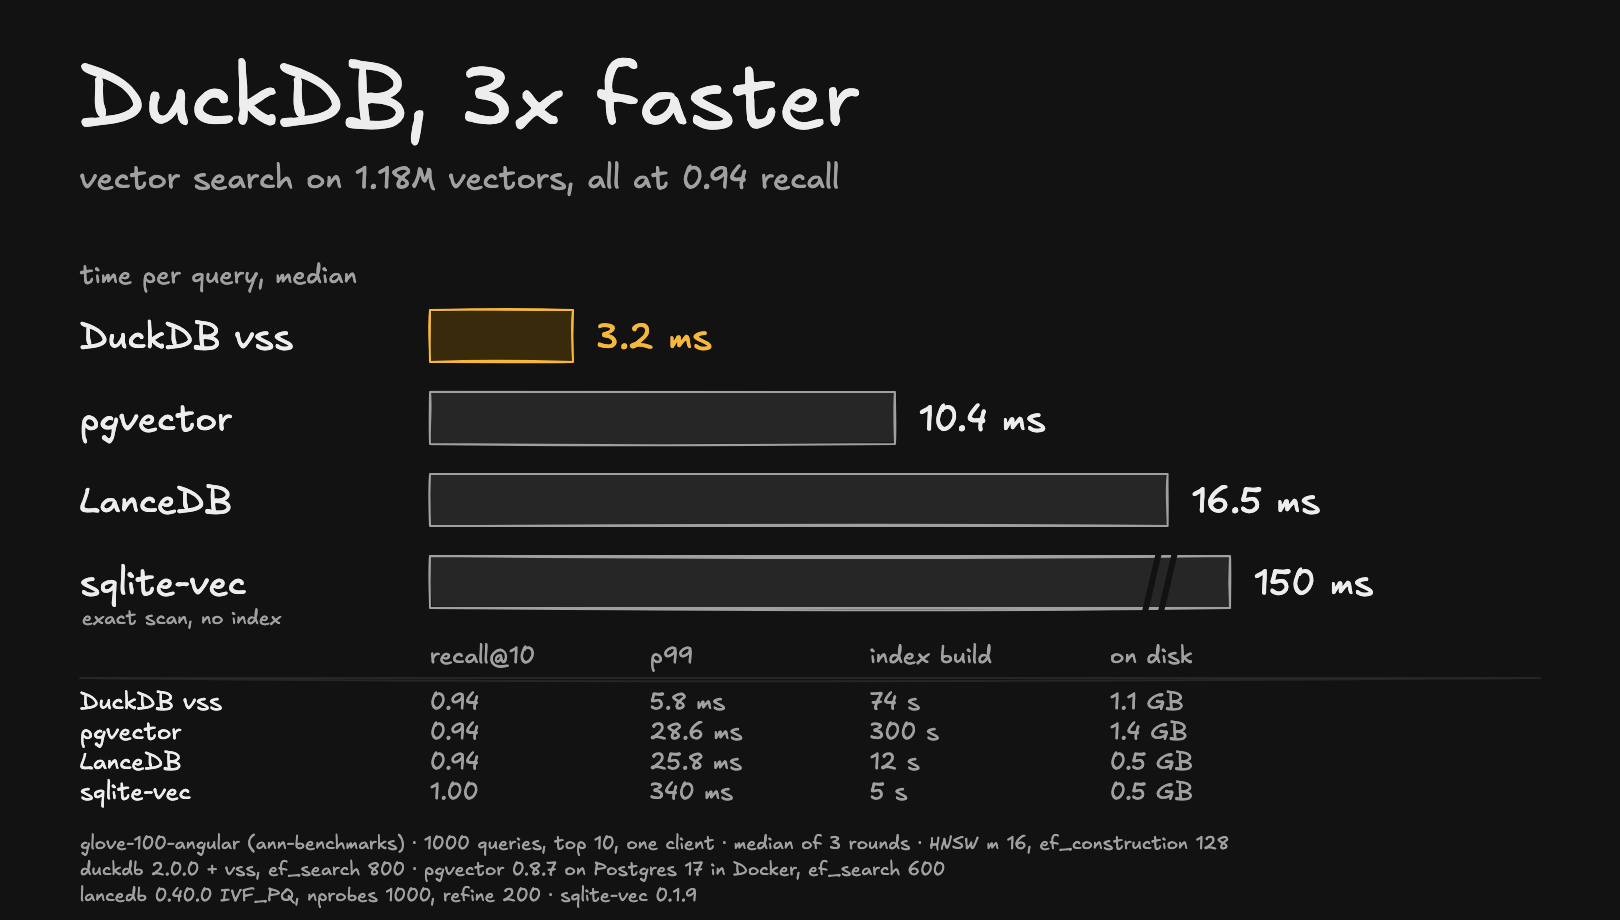
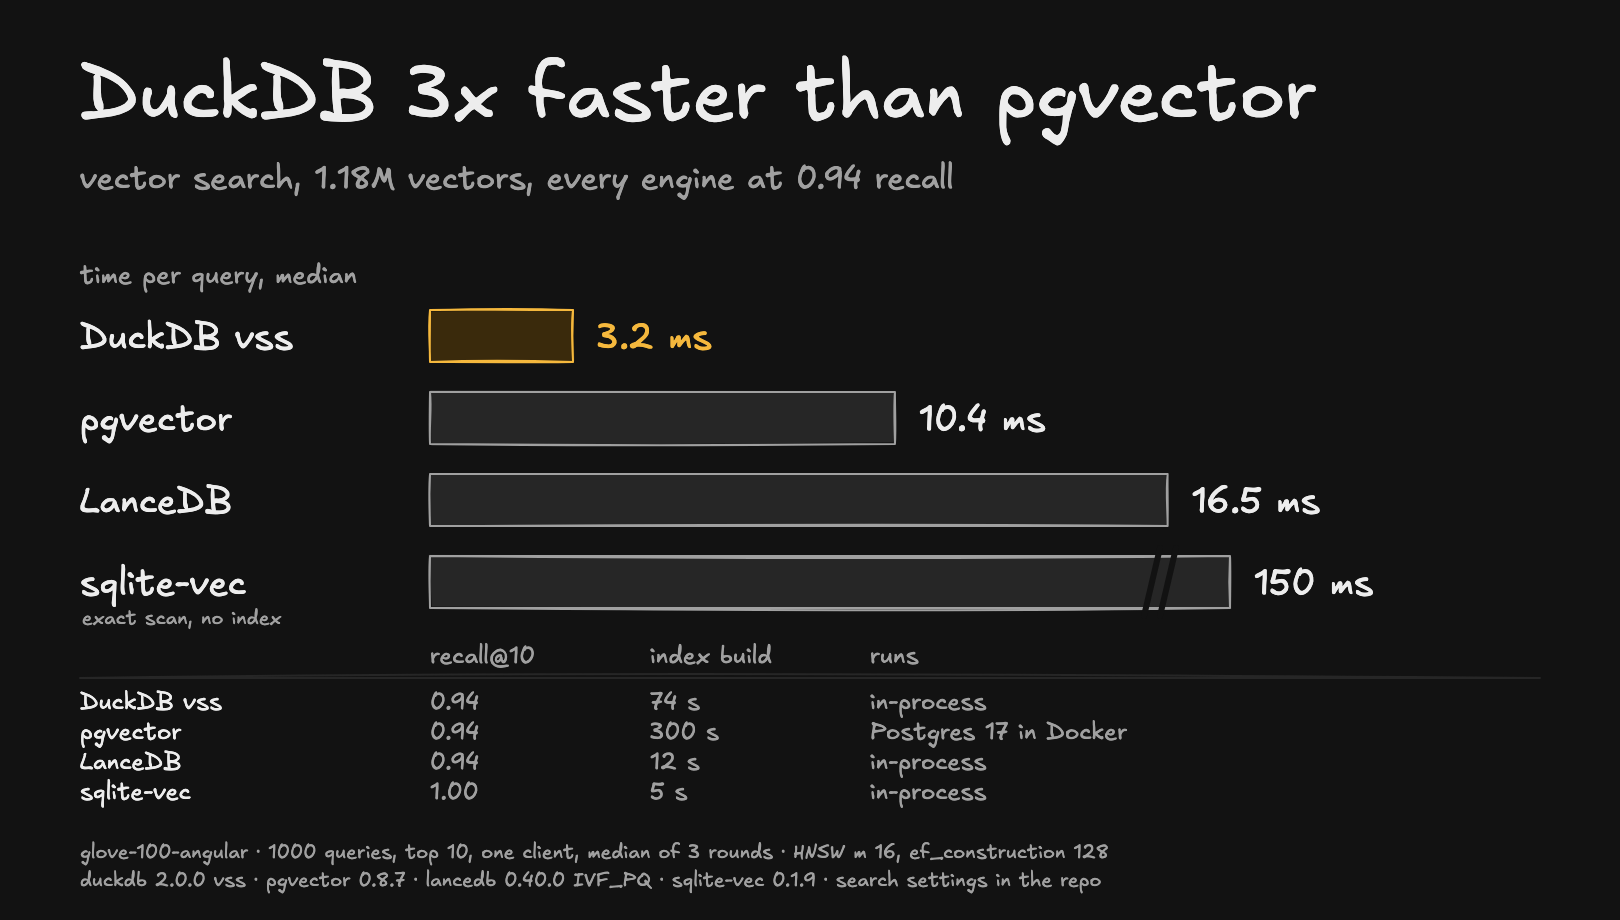
docs(vector-search): scope, fairness caveats, clearer headline

diff --git a/vector-search/README.md b/vector-search/README.md
@@ -2,11 +2,11 @@
 
 How fast do four embedded or self-hosted vector engines answer a top-10 query on 1.18M vectors, when each is tuned to the same recall?
 
-![DuckDB, 3x faster](card.png)
+![DuckDB 3x faster than pgvector](card.png)
 
 ## Result
 
-All at recall@10 ≈ 0.94, one client, median of 3 interleaved rounds of 1000 queries:
+All at recall@10 ≈ 0.94, one client sending one query at a time, median of 3 interleaved rounds of 1000 queries. pgvector runs in Docker; the other three run in-process:
 
 | Engine | Index | Search setting | recall@10 | p50 | p99 | Index build | On disk |
 |---|---|---|---|---|---|---|---|
@@ -18,6 +18,14 @@ All at recall@10 ≈ 0.94, one client, median of 3 interleaved rounds of 1000 qu
 With each engine's default search settings, recall@10 was 0.75 (DuckDB), 0.72 (pgvector) and 0.29 (LanceDB), so comparing defaults compares different accuracy.
 
 Both HNSW indexes use the same graph settings, m 16 and ef_construction 128 (DuckDB vss's defaults). With pgvector's own default ef_construction of 64, it needed `ef_search = 1000` to reach the same recall and took 14.9 ms per query.
+
+## What this does and doesn't tell you
+
+- It measures single-client latency on a warm, in-memory index for one dataset (100 dimensions, cosine). Concurrency, filtered search, writes during queries, data larger than memory and cold starts were not tested, and any of them can change the order.
+- pgvector pays for a client-server hop into a Docker VM (about 0.25 ms round trip, with the VM's 6 CPUs and 6 GB), while DuckDB, LanceDB and sqlite-vec run inside the client process. That is how most people would run each one, but it is not the same path.
+- LanceDB's IVF_PQ index only reached 0.94 recall with `nprobes 1000` (close to scanning every partition) plus `refine_factor 200`. Its HNSW-based index types were not tested and may do better.
+- The search settings (`ef_search`, `nprobes`) were chosen on the same 1000 queries that are measured; all three land within 0.001 of each other on recall.
+- The p50 across the three rounds ranged 3.1–3.7 ms (DuckDB), 10.2–11.5 ms (pgvector), 16.4–16.7 ms (LanceDB) and 144–151 ms (sqlite-vec). p99 is reported but noisy.
 
 ## Setup
 
@@ -42,4 +50,4 @@ python run.py lancedb --knob 1000:200
 python run.py sqlitevec
 ```
 
-`--train 50000 --queries 100` runs a quick smoke test on a slice of the data. Each run appends a line to `results.jsonl`; the rows in this folder are marked `default`, `sweep` (finding the setting for equal recall), `final`, and `superseded` (the earlier pgvector index with ef_construction 64).
+`--train 50000 --queries 100` runs a quick smoke test on a slice of the data. Each run appends a line to `results.jsonl`; the rows in this folder are marked `default`, `sweep` (finding the setting for equal recall), `final`, `superseded` (earlier rounds for all four engines, run while pgvector still used ef_construction 64 and with other work on the machine) and `check` (a 100-query sanity run of LanceDB's query plan).

diff --git a/README.md b/README.md
@@ -2,18 +2,18 @@
 
 ![benchmarks](images/banner.png)
 
-Developer tools measured side by side: same machine, same data, each tool's documented settings, and the scripts to run it yourself. One question per benchmark, one folder each.
+Developer tools measured side by side: same machine, same data, each tool's documented settings plus the tuning named in each folder, and the scripts to run it yourself. One question per benchmark, one folder each.
 
 | Benchmark | Question | Result |
 |---|---|---|
-| [vector-search](vector-search/) | How fast do DuckDB vss, pgvector, LanceDB and sqlite-vec answer a top-10 query on 1.18M vectors, all at the same recall? | DuckDB 3.2 ms, pgvector 10.4 ms, LanceDB 16.5 ms, sqlite-vec 150 ms (exact) |
+| [vector-search](vector-search/) | How fast do DuckDB vss, pgvector, LanceDB and sqlite-vec answer a top-10 query on 1.18M vectors, all at the same recall (one client)? | DuckDB 3.2 ms, pgvector 10.4 ms, LanceDB 16.5 ms, sqlite-vec 150 ms (exact) |
 | [llm-trace-bytes](llm-trace-bytes/) | How many bytes does each LLM tracing SDK send per call with a 32 KB prompt? | OpenInference 65.4 KB, OpenLLMetry 32.9 KB, Langfuse 13.8 KB |
 
 ## How these are run
 
 - Each tool with its defaults first, then any setting its own docs recommend, named in the results.
 - Speed is compared at equal accuracy where accuracy can differ.
-- Several rounds, interleaved, median reported; the run count is on every card.
+- Several rounds, interleaved, median reported; the run count is in each folder's README.
 - Raw results are in each folder as `results.jsonl`.
 
 Found a mistake or a fairer setting? Open an issue with the change and I'll rerun it.
